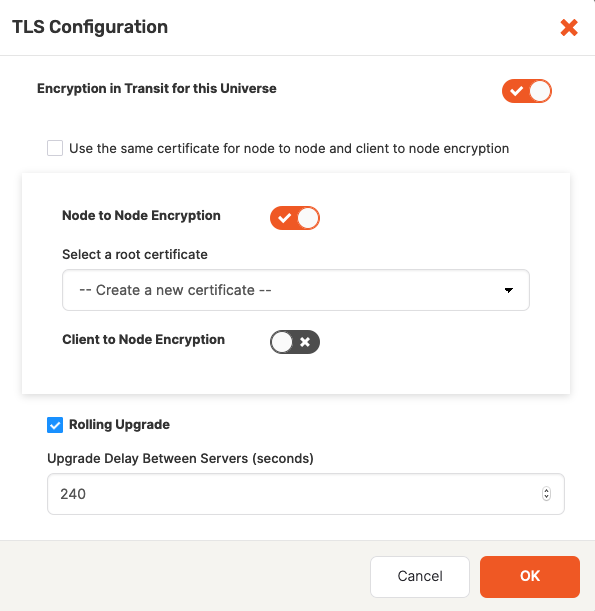
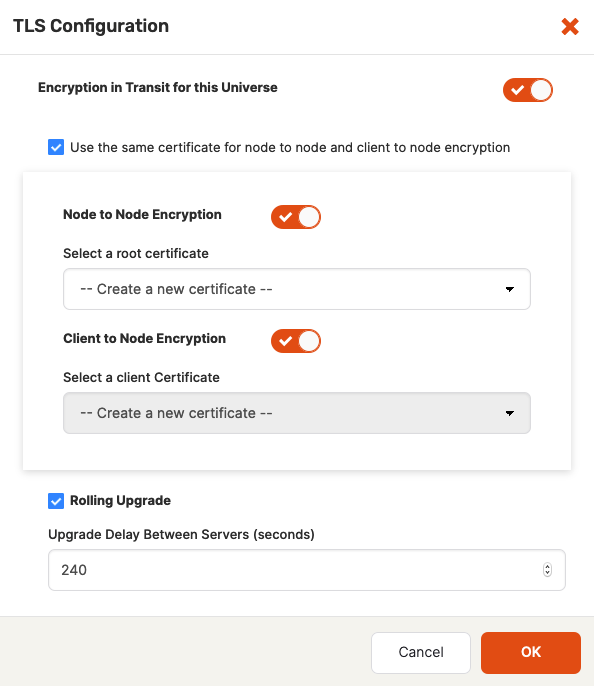
Edits

diff --git a/docs/content/latest/yugabyte-platform/security/enable-encryption-in-transit.md b/docs/content/latest/yugabyte-platform/security/enable-encryption-in-transit.md
@@ -25,7 +25,7 @@ Client-to-server TLS encryption is not supported for YEDIS. Before you can enabl
 
 Yugabyte Platform lets you create a new self-signed certificate, use an existing self-signed certificate, or upload a third-party certificate from external providers, such as Venafi or DigiCert (which is only available for an on-premise cloud provider).
 
-You can enable and disable TLS encryption during universe creation and change these settings after a universe has been created.  
+You can enable TLS encryption during universe creation and change these settings after a universe has been created.  
 
 ## Self-Signed Certificates Generated by Yugabyte Platform
 
@@ -54,17 +54,22 @@ You can also modify TLS settings for an existing universe, as follows:
 - Navigate to **Universes** and open a specific universe.
 
 - Click **Actions > Edit Security > Encryption in-Transit** to open the **TLS Configuration** dialog and then proceed as follows:
-  - If encryption in-transit is currently disabled for the universe, enable it by clicking **Encryption in Transit for this Universe**, as per the following illustration:<br><br>
+
+  - If encryption in-transit is currently disabled for the universe, enable it via the **Encryption in Transit for this Universe** field, as per the following illustration:<br><br>
 
     ![TLS Configuration](/images/yp/encryption-in-transit/tls-config1.png)
 
-    <br><br>Use the expanded **TLS Configuration** dialog shown in the following illustration to change the settings:
+    <br><br>Use the expanded **TLS Configuration** dialog shown in the following illustration to change the settings to meet your requirements:
 
     ![TLS Configuration Expanded](/images/yp/encryption-in-transit/tls-config2.png)
 
-    <br><br>Since modifying certificates requires restarting Master and T-Server processes, you can avoid downtime by accepting the default value (enabled) for the **Rolling Upgrade** field and specifying the delay between node upgrades.
+    <br><br>Since modifying certificates requires restart of Master and T-Server processes, you can avoid downtime by using certificate rotation: after enabling node to node encryption, client to node encryption, or both, you can enable rotation of the corresponding certificates by accepting the default value (enabled) for the **Rolling Upgrade** field and specifying the delay between node upgrades.
 
-  - If encryption in-transit is enabled for the universe, disable it by clicking **Encryption in Transit for this Universe**, and then click **OK**.
+  - If encryption in-transit is currently enabled for the universe, disable it via the **Encryption in Transit for this Universe** field, and then click **OK**.
+
+  Previously we used to support cert rotation only for custom certs and that too only server certs rotation not root cert rotation
+  With this change we support both custom certs and self signed certs rotation (either server certs or root certs)And yes the process is more or less same to the old UI. In the old UI there is only one dropdown where they can choose another custom certs.
+  Now in the new UI we separated node-to-node certs and client-to-node certs and they can choose any type of certs to rotate.
 
 ## Self-Signed Self-Provided Certificates
 
@@ -79,7 +84,7 @@ The platform produces the node (leaf) certificates from the uploaded certificate
 
 ### How to Use Self-Signed Self-Provided Certificates to Enable TLS
 
-You can enable TLS using your own certificates, as follows:
+When you create a universe, you can enable TLS using your own certificates, as follows:
 
 - Navigate to **Configs > Security > Encryption in Transit**.
 - Click **Add Certificate** to open the **Add Certificate** dialog.
@@ -87,13 +92,15 @@ You can enable TLS using your own certificates, as follows:
 - Click **Upload Root Certificate**, then browse to the root certificate file (`<file-name>.crt`) and upload it.
 - Click **Upload Key**, then browse to the root certificate file (`<file-name>.key`) and upload it.
 - In the **Certificate Name** field, enter a meaningful name for your certificate.
-- In the **Expiration Date** field, specify the expiration date of the root certificate. To find this information, execute the `openssl x509 -in <root_crt_file_path> -text -noout` command and note the **Validity Not After** date.
+- In the **Expiration Date** field, specify the expiration date of the root certificate. To find this information, execute the `openssl x509 -in <root-crt-file-path> -text -noout` command and note the **Validity Not After** date.
 - Click **Add** to make the certificate available.
 - Go to **Universes > Create Universe** to open the **Create Universe** dialog.
 - Configure the universe.
 - Based on your requirements, select **Enable Node-to-Node TLS** and **Enable Client-to-Node TLS**.
 - Select an existing certificate from the **Root Certificate** list and then select the certificate that you have uploaded.
 - Create the universe.
+
+You can also modify TLS settings for an existing universe by navigating to **Universes**, opening a specific universe, clicking **Actions > Edit Security > Encryption in-Transit** to open the **TLS Configuration** dialog, and then following the procedure described in [How to Use Platform-Generate Certificates to Enable TLS](#how-to-use-platform-generated-certificates-to-enable-tls) for an existing universe. 
 
 ## Custom CA-Signed Self-Provided Certificates
 
@@ -158,13 +165,13 @@ The following procedure describes how to rotate the existing custom certificates
 
 - Select **Encryption in-Transit** to open the **TLS Configuration** dialog. 
 
-- Complete the **TLS Configuration** dialog, as shown in the following illustration:
+- Complete the **TLS Configuration** dialog shown in the following illustration:
 
   - Select the new certificate which you created in Step 3.
 
-  - Modifying the certificates requires restarting Master and T-Server processes. To avoid downtime, select **Rolling Upgrade** and specify the delay between node upgrades.
+  - Since modifying certificates requires restart of Master and T-Server processes, you can avoid downtime by using certificate rotation: after enabling node to node encryption, client to node encryption, or both, you can enable rotation of the corresponding certificates by accepting the default value (enabled) for the **Rolling Upgrade** field and specifying the delay between node upgrades.
 
-  - Click **OK**. 
+  - Click **OK**.<br> 
 
     Typically, this process takes time, as it needs to wait for the specified delay interval after each node is upgraded.
 
